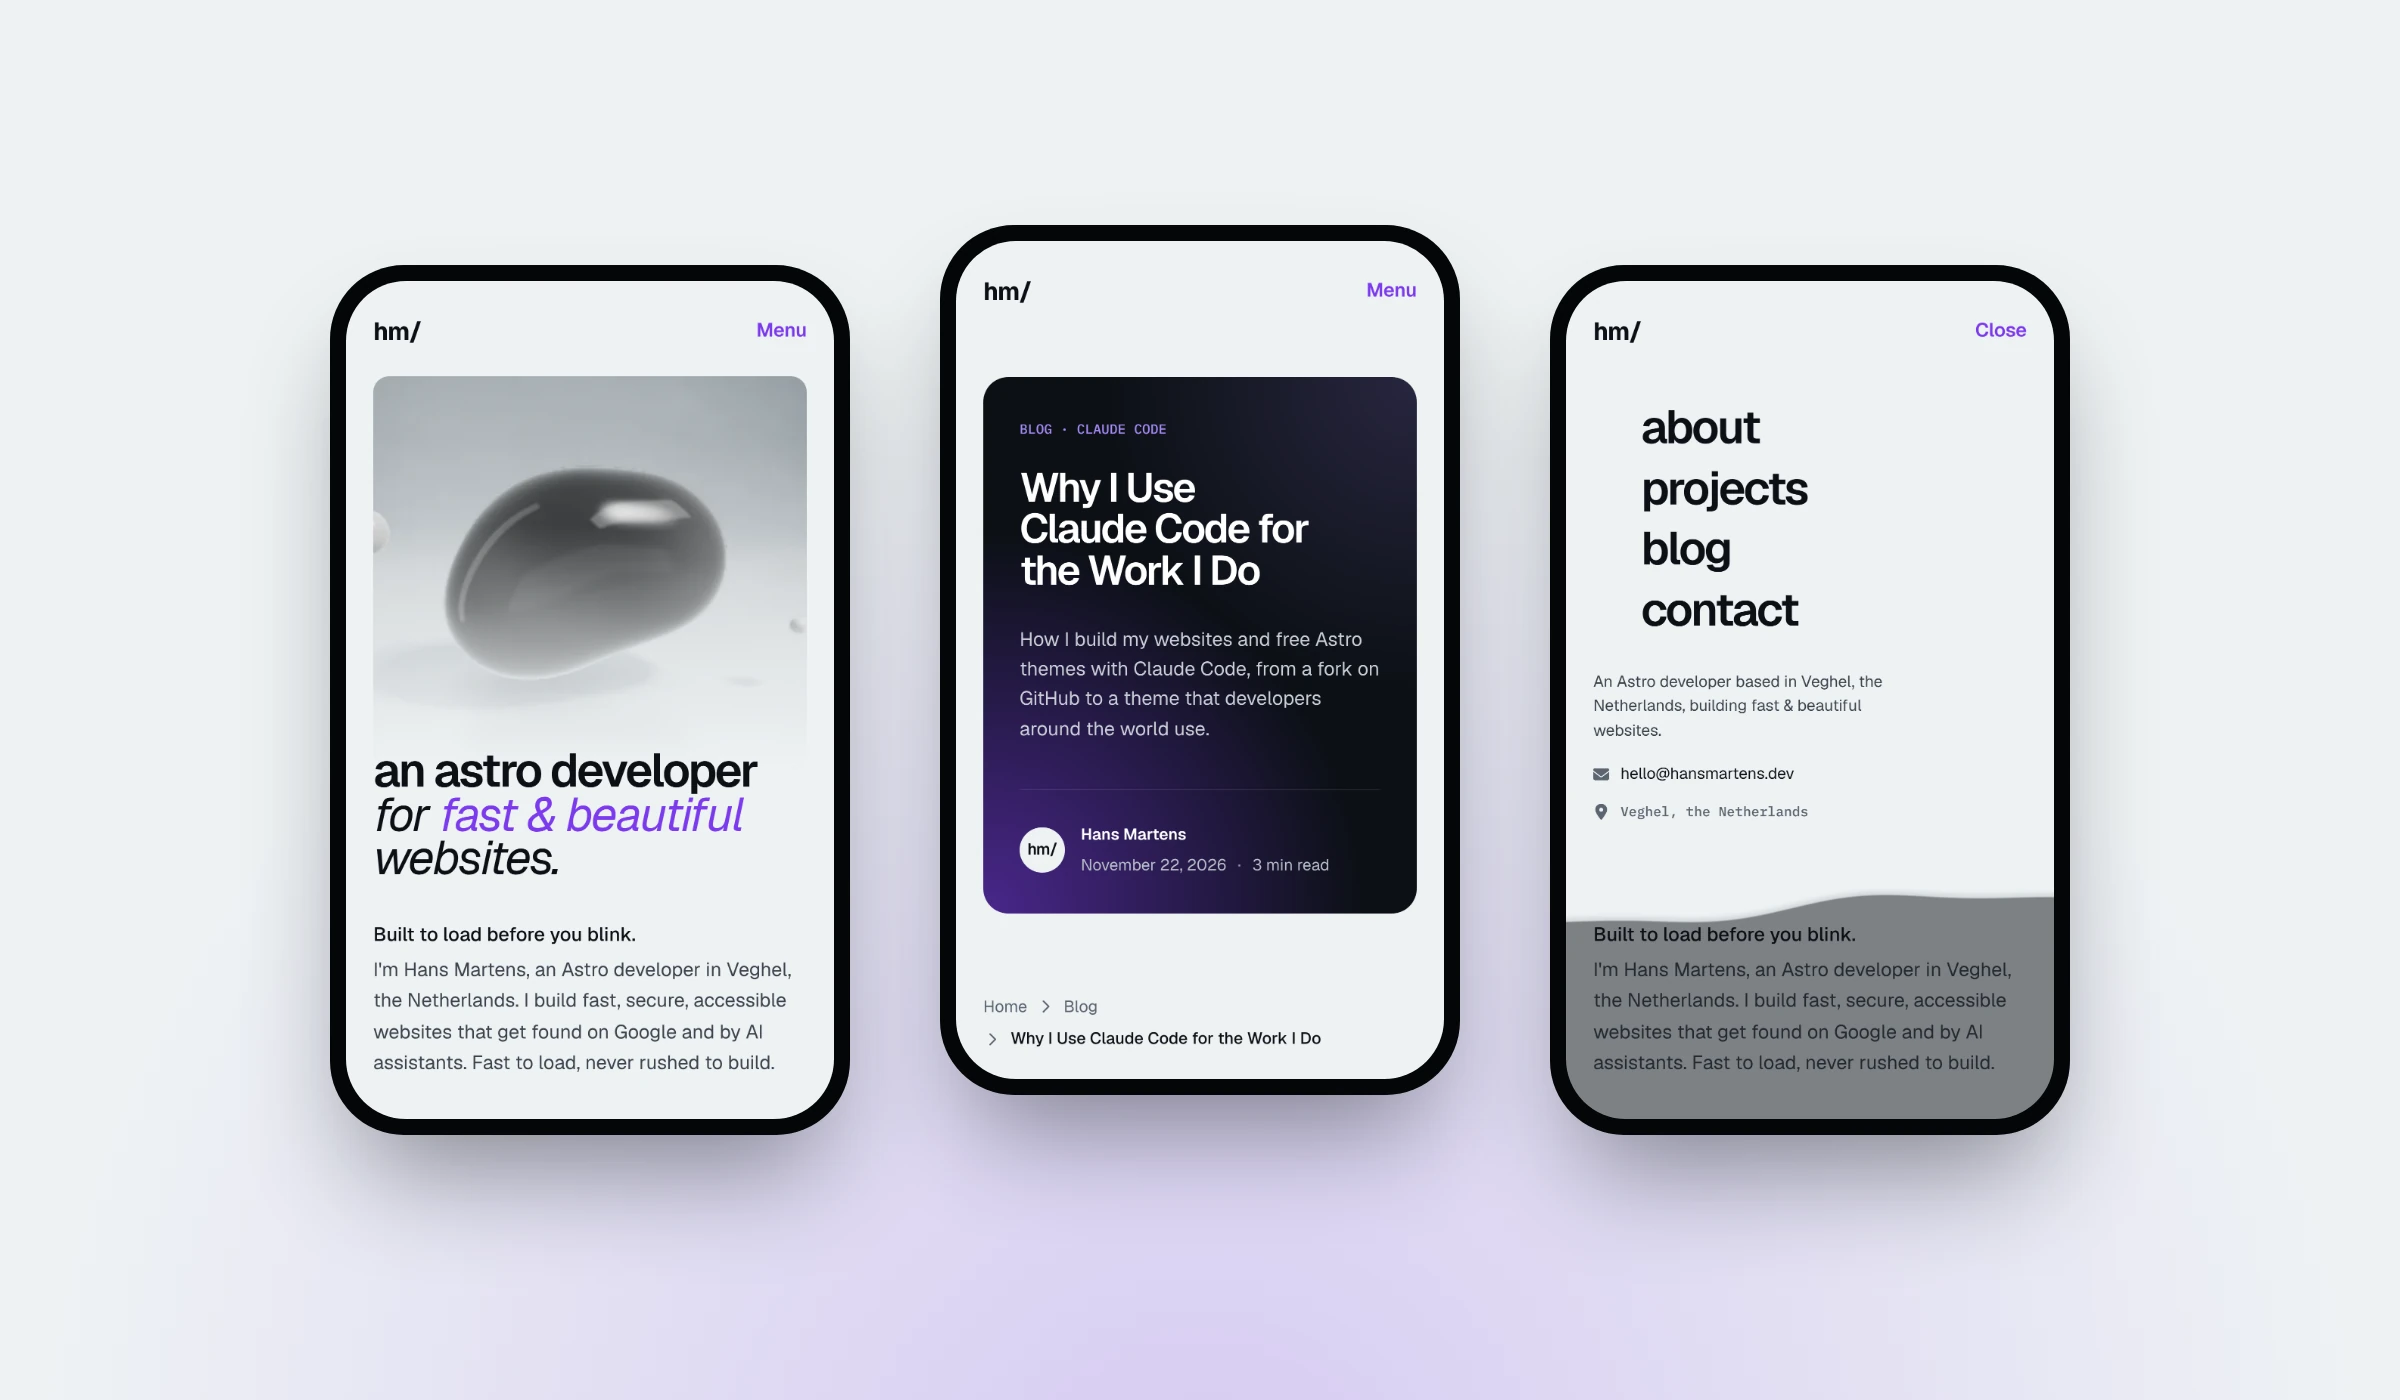
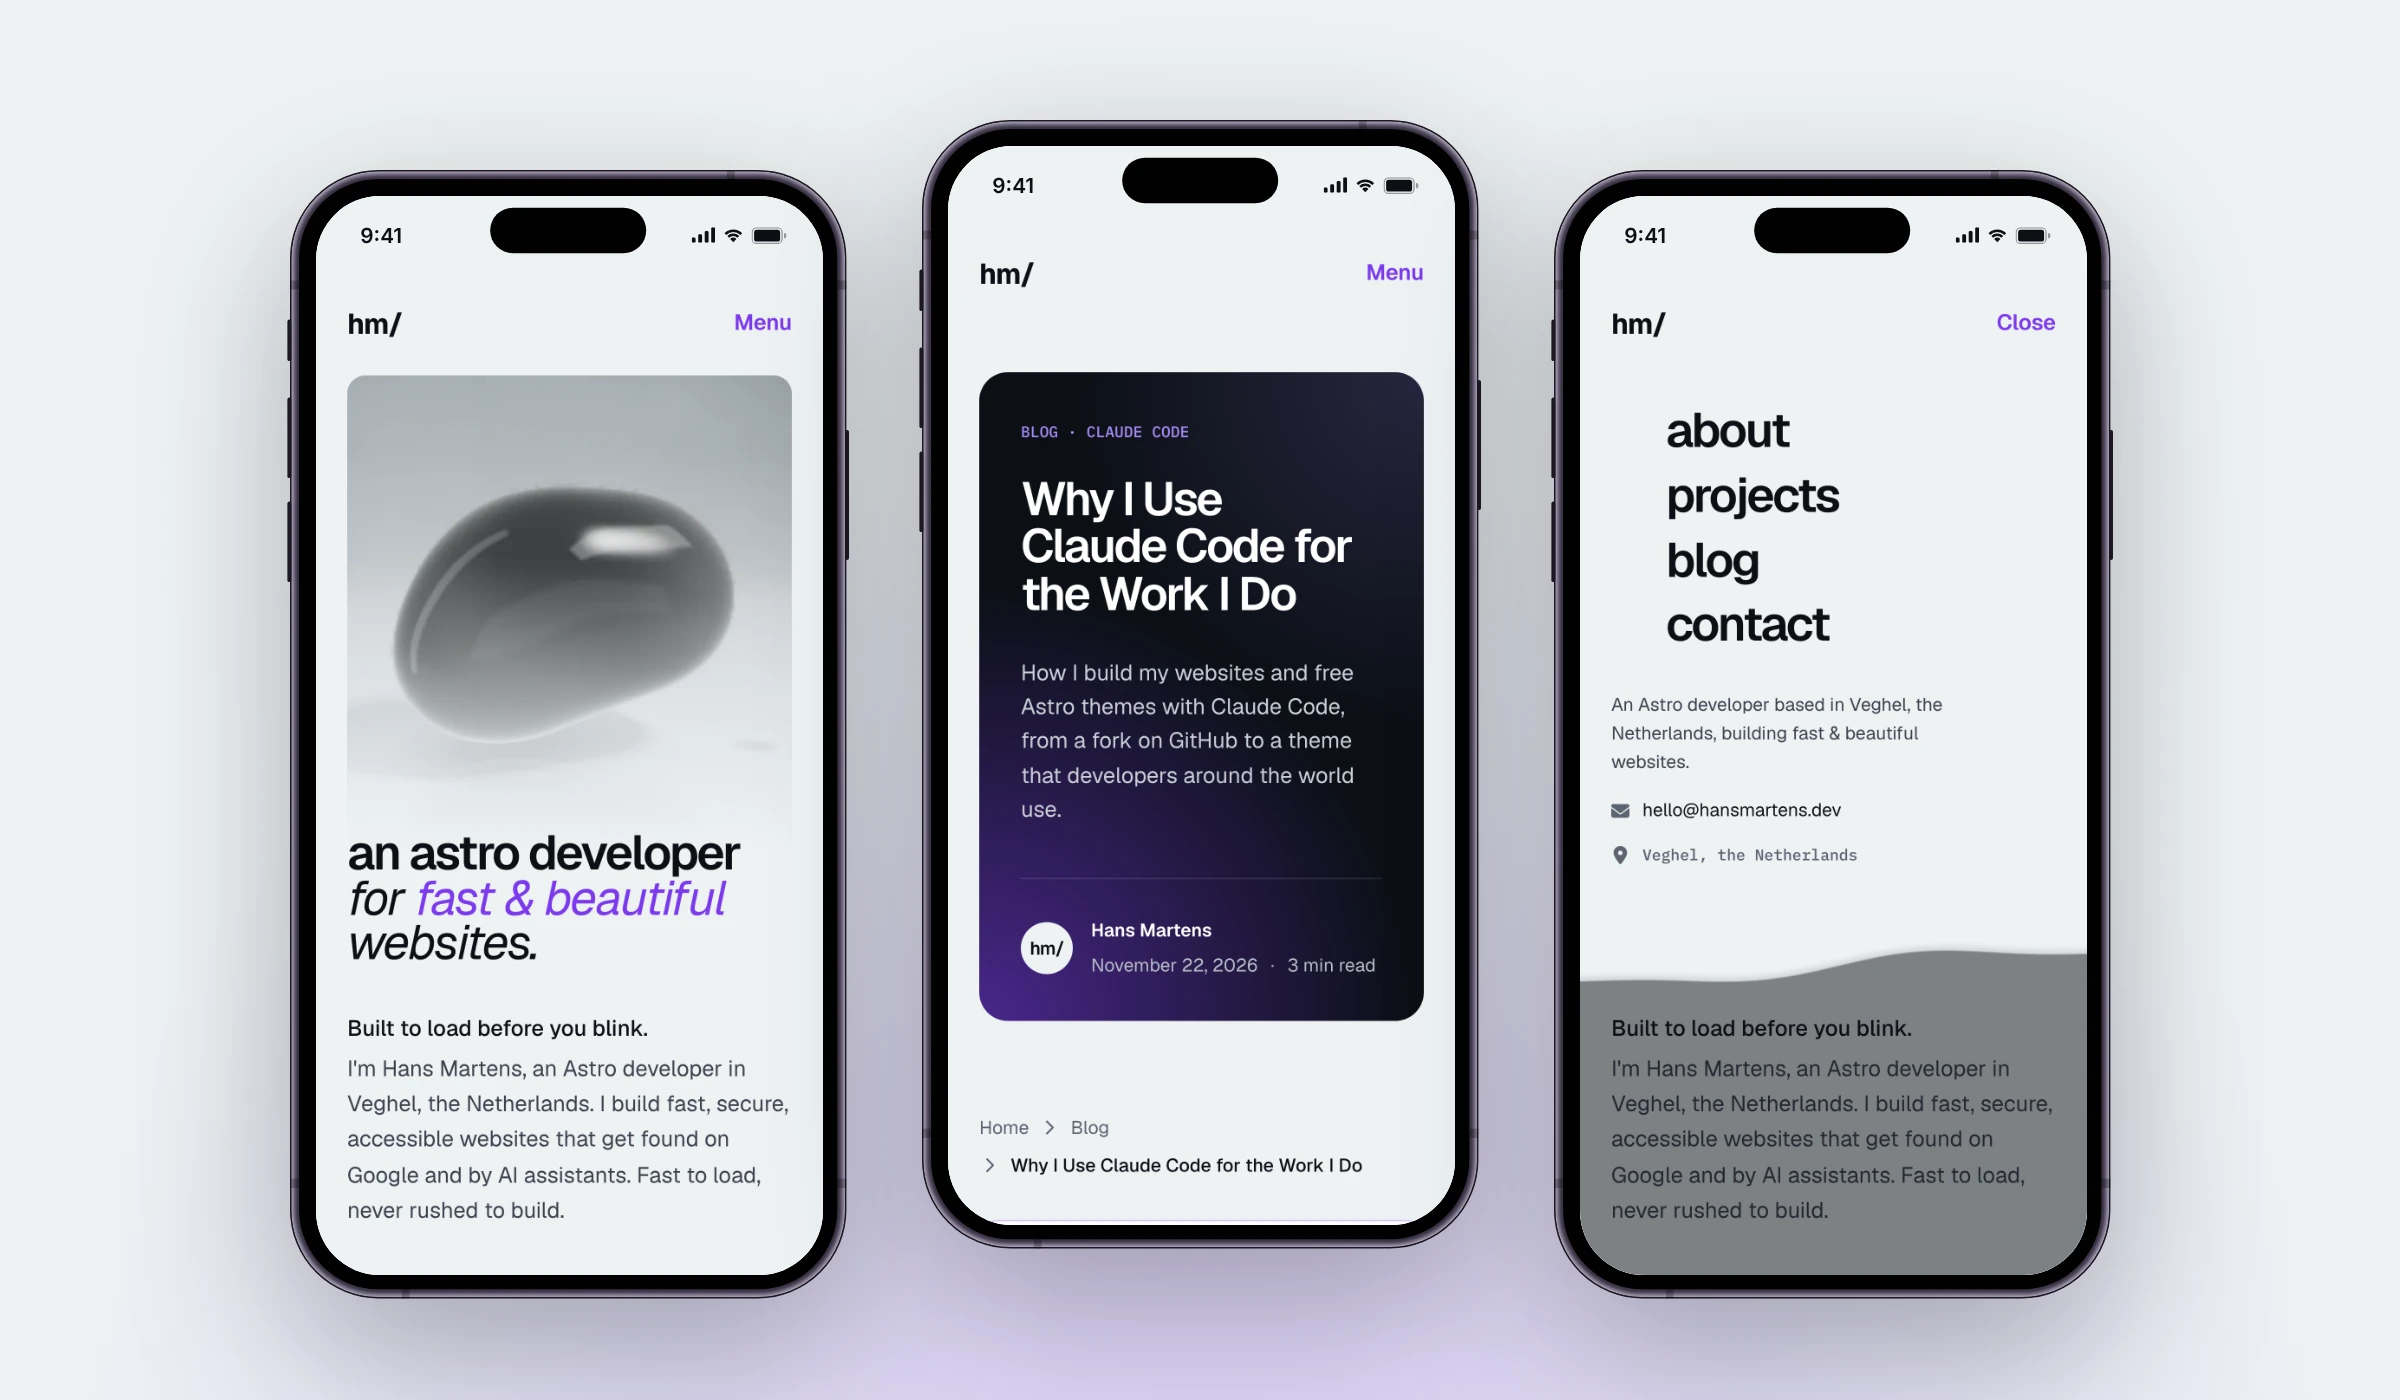
Project 1: realistic device mockups; phone cards show the rest picture
Mockups rebuilt with devices.css (MIT): a MacBook Pro and two deep
purple iPhone 14 Pros with a status bar, on the violet glow. A smaller,
higher version is the card's rest picture and the project page's hero,
leaving the dark lower part for the title; the larger one is the hover.
The three-phone capture uses the same iPhones.

On touch screens a card now shows its rest picture in colour instead of
the hover picture, which a narrow phone card cropped under the title.

Claude-Session: https://claude.ai/code/session_01QQKtzRrqmVqCvb8agowgiA

diff --git a/src/content/work/hansmartens-dev.md b/src/content/work/hansmartens-dev.md
@@ -5,7 +5,7 @@ discipline: "PERSONAL SITE"
 description: "Portfolio, blog, developer's website."
 year: 2026
 url: "https://hansmartens.dev"
-feature: "../../assets/work/hansmartens-dev/feature.webp"
+feature: "../../assets/work/hansmartens-dev/mockup-hero.webp"
 cover: "../../assets/work/hansmartens-dev/mockup.webp"
 coverAlt: "hansmartens.dev on a laptop and two phones: the homepage and a blog post"
 gallery:
